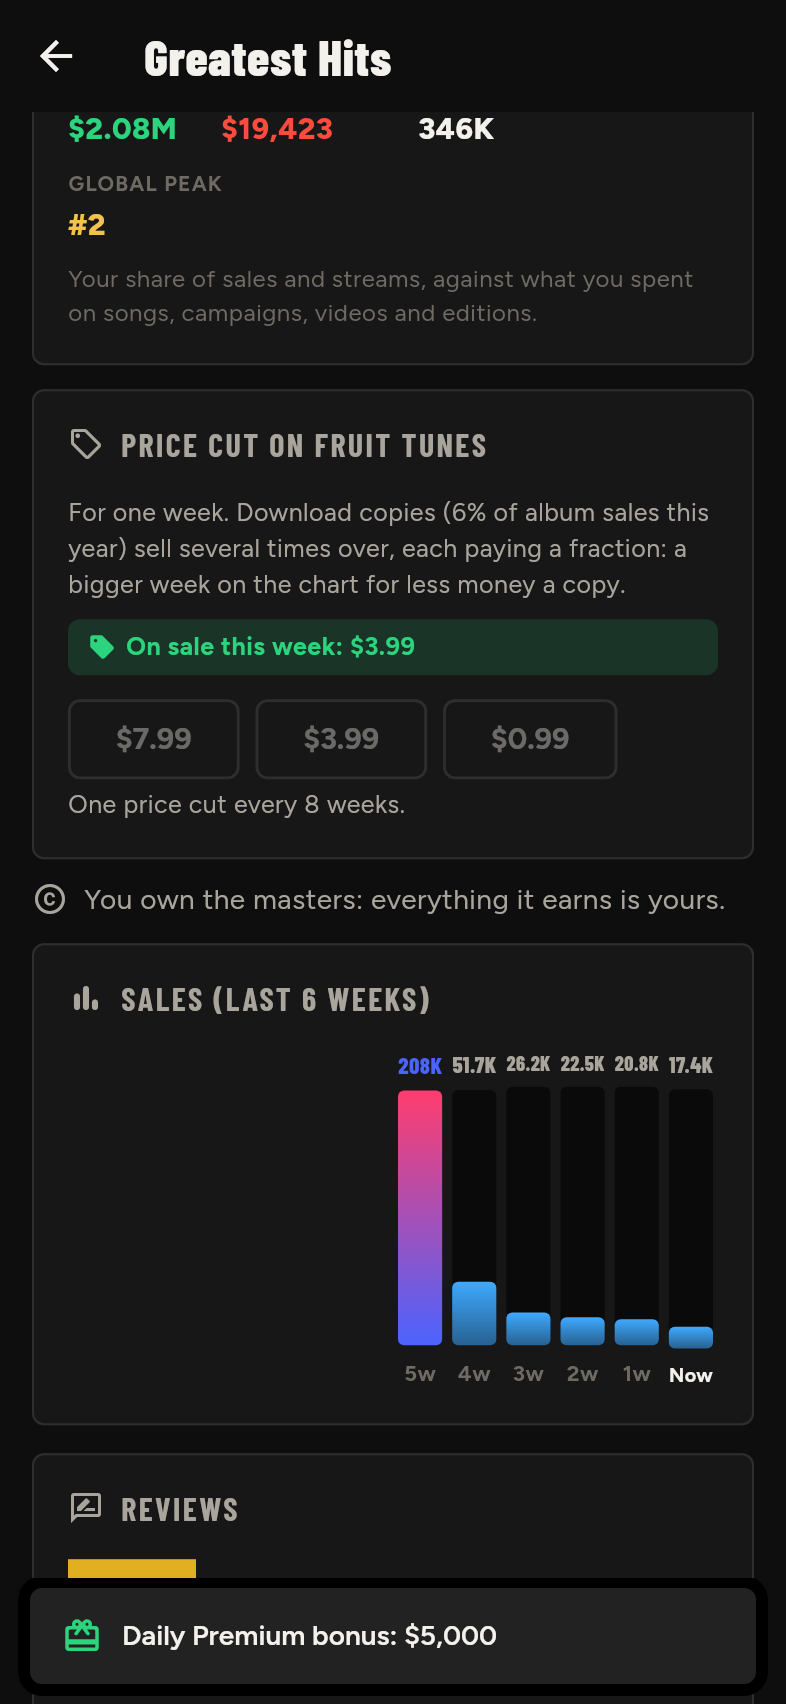
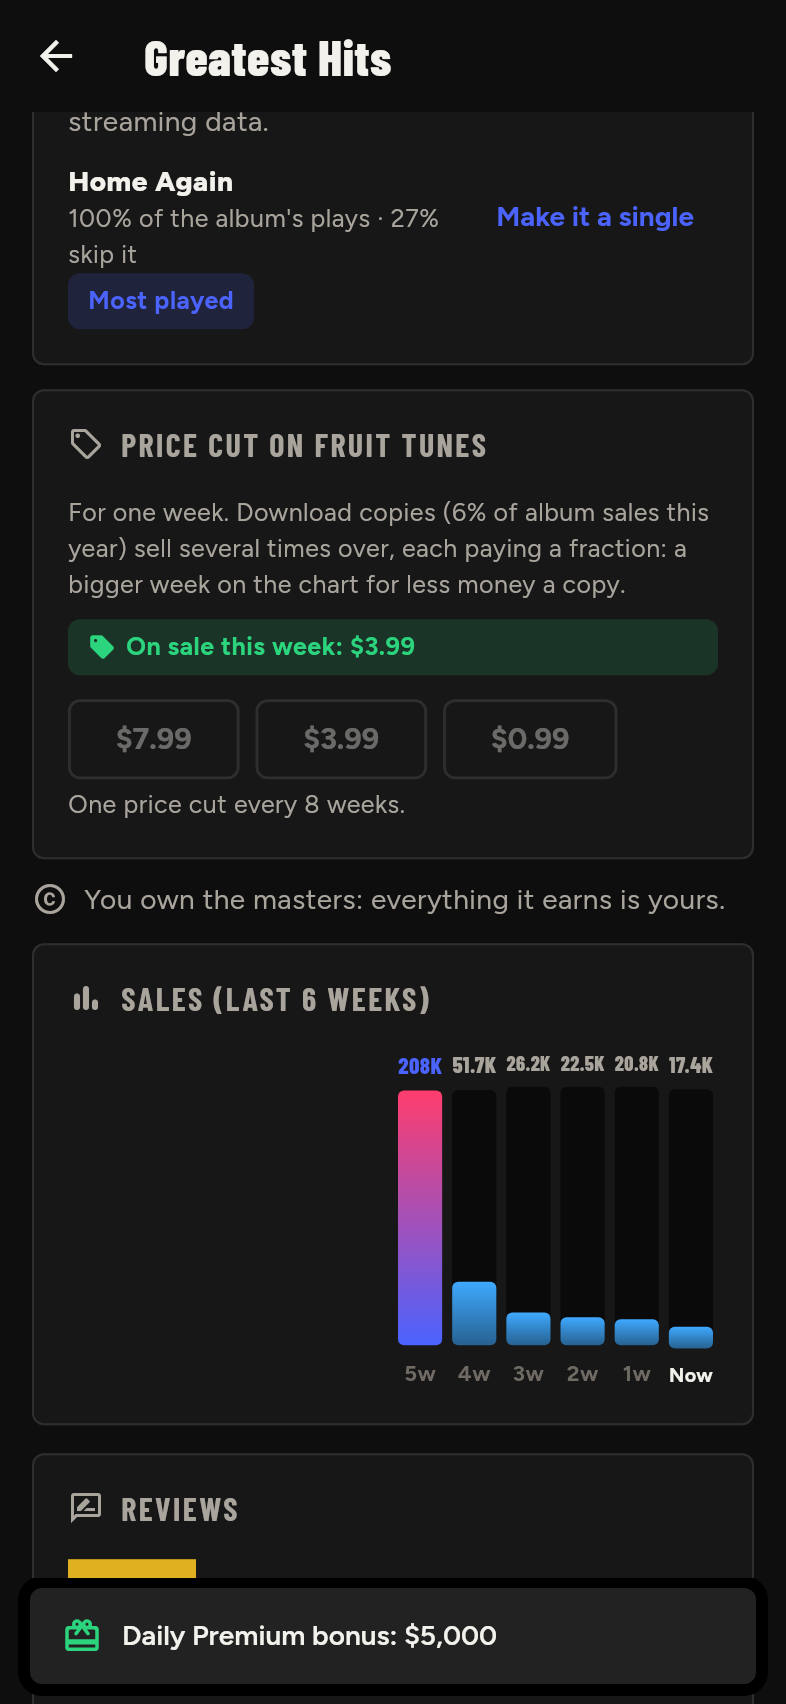
Pick the next single from listening data (K182)
The player's album page ranks the tracks that are not singles yet the
way labels read streaming data: how much each is played, how few skip
it, radio fit, short-video potential and word of mouth, with the
reasons as tags and a button to put the track out as a single.

Claude-Session: https://claude.ai/code/session_01UqeaYiXbKvrTFgHV44HcjP

Changed region(s): [[0.0611, 0.0622, 0.8855, 0.2177], [0.5191, 0.0622, 0.6412, 0.0933]]

diff --git a/app/lib/screens/album_detail_screen.dart b/app/lib/screens/album_detail_screen.dart
@@ -39,6 +39,9 @@ class _AlbumDetailScreenState extends State<AlbumDetailScreen> {
   List<AlbumSalesWeek> _sales = const [];
   List<ChartWeek> _run = const [];
 
+  /// Tracks the listening data suggests for the next single (docs K182).
+  List<SinglePickView> _picks = const [];
+
   @override
   void initState() {
     super.initState();
@@ -57,8 +60,10 @@ class _AlbumDetailScreenState extends State<AlbumDetailScreen> {
     final history = await st.read(Cmd.albumHistory(widget.albumId));
     final sales = await st.read(Cmd.albumSales(widget.albumId));
     final run = await st.read(Cmd.chartRun(EntityKind.album, widget.albumId));
+    final picks = await st.read(Cmd.singlePicks(widget.albumId));
     if (mounted) {
       setState(() {
+        _picks = picks;
         _album = album;
         _tracks = tracks;
         _hits = hits;
@@ -67,6 +72,61 @@ class _AlbumDetailScreenState extends State<AlbumDetailScreen> {
         _run = run;
       });
     }
+  }
+
+  Widget _picksSection() {
+    final l = context.l10n;
+    final career = widget.state;
+    String reason(SinglePickReason r) => switch (r) {
+          SinglePickReason.mostPlayed => l.pickMostPlayed,
+          SinglePickReason.fewSkips => l.pickFewSkips,
+          SinglePickReason.radio => l.pickRadio,
+          SinglePickReason.shortVideo => l.pickShortVideo,
+          SinglePickReason.growing => l.pickGrowing,
+        };
+    return Section(
+      title: l.pickTitle,
+      icon: Icons.insights_rounded,
+      child: Column(crossAxisAlignment: CrossAxisAlignment.stretch, children: [
+        Text(l.pickHint, style: TextStyle(color: AppColors.textMuted)),
+        for (final x in _picks) ...[
+          const SizedBox(height: 10),
+          Row(children: [
+            Expanded(
+              child: Column(
+                  crossAxisAlignment: CrossAxisAlignment.start,
+                  children: [
+                    Text(x.title,
+                        style: const TextStyle(fontWeight: FontWeight.w800)),
+                    Text(
+                        l.pickLine((x.share * 100).round(),
+                            (x.skipRate * 100).round()),
+                        style: TextStyle(
+                            color: AppColors.textMuted, fontSize: 12.5)),
+                  ]),
+            ),
+            TextButton(
+              onPressed: career.busy
+                  ? null
+                  : () async {
+                      final song = _tracks
+                          .where((s) => s.id == x.songId)
+                          .firstOrNull;
+                      if (song == null) return;
+                      if (await releaseSingleFlow(context, career, song)) {
+                        _load();
+                      }
+                    },
+              child: Text(l.pickRelease),
+            ),
+          ]),
+          if (x.reasons.isNotEmpty)
+            Wrap(spacing: 6, runSpacing: 4, children: [
+              for (final r in x.reasons) Tag(reason(r)),
+            ]),
+        ],
+      ]),
+    );
   }
 
   String _priceLabel(AppLocalizations l, PriceCut c) => switch (c) {
@@ -367,6 +427,11 @@ class _AlbumDetailScreenState extends State<AlbumDetailScreen> {
                     style: TextStyle(color: AppColors.textMuted)),
               ),
             ]),
+          ],
+          // The next single, from the listening data (docs K182).
+          if (a.isPlayer && _picks.isNotEmpty) ...[
+            const SizedBox(height: 12),
+            _picksSection(),
           ],
           // How it was rolled out (docs K165).
           if (a.isPlayer && a.rollout.count > 0) ...[

diff --git a/packages/game/lib/src/game_session.dart b/packages/game/lib/src/game_session.dart
@@ -1726,6 +1726,66 @@ class GameSession {
     _saveNow();
   }
 
+  /// How many tracks the next single pick shows (docs K182).
+  static const singlePickCount = 3;
+
+  /// The player's album [albumId]'s tracks that are not singles yet,
+  /// ranked for the next single by what listeners do with them (docs
+  /// K182): how much they are played, how few skip them, the radio, the
+  /// short-video app and word of mouth.
+  List<SinglePickView> singlePicks(int albumId) {
+    final w = world;
+    if (albumId < 0 || albumId >= w.albums.length) {
+      throw GameException('noAlbum', 'No such album');
+    }
+    final al = w.albums[albumId];
+    if (al.artistId != _p.id || al.type == AlbumType.mixtape) return const [];
+    final year = GameTime.yearOf(w.week);
+    final tracks = [
+      for (final id in al.songIds)
+        if (!w.songs[id].isSingle &&
+            w.songs[id].releasedWeek >= 0 &&
+            w.songs[id].status != SongStatus.scrapped &&
+            !_p.scheduled.any((sr) => !sr.isAlbum && sr.songIds.contains(id)))
+          w.songs[id]
+    ];
+    if (tracks.isEmpty) return const [];
+    var total = 0.0, most = 0.0;
+    for (final s in tracks) {
+      total += s.lastAttention;
+      if (s.lastAttention > most) most = s.lastAttention;
+    }
+    final out = <SinglePickView>[];
+    for (final s in tracks) {
+      final skip = StreamingTools.skipRate(s);
+      final age = w.week - s.releasedWeek;
+      final growing = WordOfMouth.lift(w, s, age) >= WordOfMouth.noticed / 2;
+      final video = year >= 2019 ? s.virality : 0.0;
+      final played = most > 0 ? s.lastAttention / most : 0.0;
+      out.add(SinglePickView(
+        songId: s.id,
+        title: s.title,
+        share: total > 0 ? s.lastAttention / total : 0,
+        skipRate: skip,
+        score: 0.5 * played +
+            0.25 * (1 - skip) +
+            0.15 * s.radioAppeal +
+            0.1 * video +
+            (growing ? 0.1 : 0),
+        reasons: [
+          if (most > 0 && s.lastAttention == most)
+            SinglePickReason.mostPlayed,
+          if (skip <= 0.25) SinglePickReason.fewSkips,
+          if (s.radioAppeal >= 0.6) SinglePickReason.radio,
+          if (video >= 0.6) SinglePickReason.shortVideo,
+          if (growing) SinglePickReason.growing,
+        ],
+      ));
+    }
+    out.sort((x, y) => y.score.compareTo(x.score));
+    return out.take(singlePickCount).toList();
+  }
+
   /// Records album [albumId] again under the player's own name (docs
   /// K139): its songs go into the vault as new versions, kept together
   /// as a draft called [title] with up to [Actions.maxDeluxeTracks]

diff --git a/packages/game/test/game_test.dart b/packages/game/test/game_test.dart
@@ -3383,6 +3383,48 @@ void main() {
       g.close();
     });
 
+    test('the next single picked from what listeners do (K182)', () {
+      final g = GameSession.start(
+          slots,
+          _setup(
+              startYear: 2020,
+              premium: true,
+              tier: StartTier.superstar,
+              money: StartMoney.millionaire));
+      final p = g.world.player!;
+      p.moneyCents = 1 << 40;
+      final ids = <int>[];
+      for (var i = 0; i < 10; i++) {
+        p.creativeEnergy = 100;
+        ids.add(g.writeSong(budget: BudgetTier.high).id);
+      }
+      final al = g.releaseAlbum('Picks', ids);
+      for (var i = 0; i < 3; i++) {
+        g.advanceWeek();
+      }
+      final picks = g.singlePicks(al.id);
+      expect(picks.length, GameSession.singlePickCount);
+      for (var i = 1; i < picks.length; i++) {
+        expect(picks[i].score, lessThanOrEqualTo(picks[i - 1].score));
+      }
+      expect(picks.every((x) => ids.contains(x.songId)), isTrue);
+      // The most played track is flagged wherever it ranks.
+      final top = ids
+          .map((id) => g.world.songs[id])
+          .reduce((a, b) => a.lastAttention >= b.lastAttention ? a : b);
+      for (final x in picks) {
+        expect(x.reasons.contains(SinglePickReason.mostPlayed),
+            x.songId == top.id);
+      }
+      g.releaseSingle(picks.first.songId);
+      expect(g.singlePicks(al.id).map((x) => x.songId),
+          isNot(contains(picks.first.songId)));
+      // Only the player's own albums.
+      final rival = g.world.albums.firstWhere((a) => a.artistId != p.id);
+      expect(g.singlePicks(rival.id), isEmpty);
+      g.close();
+    });
+
     test('a single worked to another radio format (K134)', () {
       var g = GameSession.start(slots, _setup());
       final slot = g.slotId;

diff --git a/packages/game/lib/src/views.dart b/packages/game/lib/src/views.dart
@@ -2516,6 +2516,43 @@ class DocumentaryView {
       })> docs;
 }
 
+/// Why the listening data likes a track for the next single (docs K182).
+enum SinglePickReason {
+  /// The album's most played track that is not a single yet.
+  mostPlayed,
+
+  /// Few listeners skip it.
+  fewSkips,
+
+  /// Made for the radio.
+  radio,
+
+  /// Could take off on the short-video app (2019+).
+  shortVideo,
+
+  /// More people find it every week (word of mouth).
+  growing,
+}
+
+/// An album track the listening data suggests as the next single.
+class SinglePickView {
+  SinglePickView(
+      {required this.songId,
+      required this.title,
+      required this.share,
+      required this.skipRate,
+      required this.score,
+      required this.reasons});
+  final int songId;
+  final String title;
+
+  /// Its share of the album's non-single listening this week.
+  final double share;
+  final double skipRate;
+  final double score;
+  final List<SinglePickReason> reasons;
+}
+
 /// Streamify Sessions (docs K178): the invitation, the player's songs
 /// that could be recorded, the hits that could be covered and the
 /// sessions so far.

diff --git a/app/lib/core/commands.dart b/app/lib/core/commands.dart
@@ -211,6 +211,10 @@ abstract final class Cmd {
   static SessionCmd<List<MilestoneView>> milestones() => (s) => s.milestones;
   static SessionCmd<List<PlatformView>> platforms() => (s) => s.platforms;
   static SessionCmd<void> hireManager(Manager m) => (s) => s.hireManager(m);
+  /// Album tracks for the next single (docs K182).
+  static SessionCmd<List<SinglePickView>> singlePicks(int albumId) =>
+      (s) => s.singlePicks(albumId);
+
   /// Nights a tour leg can fill (docs K181).
   static SessionCmd<int> suggestTourShows(TourRequest r, TourMarket m) =>
       (s) => s.suggestTourShows(r, m);

diff --git a/docs/README.md b/docs/README.md
@@ -206,6 +206,7 @@ Bu kararlar alınmıştır; değiştirmek için bilinçli bir revizyon gerekir.
 | K179 | **Denge kontrolü (K168–K178 sonrası, career_probe, normal mod, 3 dünya, medyan):** Bilinmeyen 2010: K167 ile aynı (3. yıl en iyi ABD #3 ve 132K hayran, 4. yılda ABD #1, albüm ilk haftası 133K; 5. yılda #1'ler, 1,3M hayran, 5,2M para). Süperstar 2016: yıl 1–3 #1 sayısı 3 → 1 → 0 (K167: 4 → 2 → 1), albüm ilk haftası global 0,94–1,0M (K167: 1,0–1,1M), para 16,6M (K167: 18,0M). Stadyum eşiği (K176) etkisiz: 5M eşikle ölçüm birebir aynı. Fark rakip yıldızların çıkış hamlelerinden (K175) dünyanın farklı akmasından; tek dünyalık oynamalar bu büyüklükte. Ayar yapılmadı. |
 | K180 | **Turne biletleri daha kolay satılıyor (F82):** Mekan boyutuna göre çekim çarpanı: kulüp ×2,2 (yerel sahne ve kapıdan gelenler), tiyatro ×1,1, arena ×1,25, stadyum ×1,4 (büyük konser bir etkinlik, hayranlar yanında başkalarını da getiriyor). Rakiplerin turne kayıtları da aynı kuralla. Ölçüm (ABD bacağı, performans 29, heyecansız → heyecan 0,3): kulüp 20K hayran 10 gece %31 → %64 (%74); arena 1M 10 gece %65 → %81 (%96); stadyum 3M 6 gece %61 → %84 (%98), 4M 10 gece %67 → %91 (%100), 6M 20 gece %70 → %88 (%96). Önceden stadyum, hayran sayısından bağımsız hiç dolmuyordu. | Uygulandı |
 | K181 | **Turne bacakları talebe göre (F82'nin devamı):** Turne planlayıcısı her pazarın varsayılan gece sayısını "en fazlanın üçte biri" seçiyordu (ABD stadyumu 20 gece); talep düşükse biletler yarı boş kalıyordu. Artık bir pazar açılınca ya da mekan boyutu değişince gece sayısı, o fiyat, prodüksiyon ve ön grupla koltukların ~%90'ını dolduracak en fazla geceye ayarlanıyor; her bacakta "Talebe göre" düğmesi fiyat ya da ön grup değiştikten sonra yeniden ayarlıyor. Elle artırıp azaltmak hâlâ serbest. | Uygulandı |
+| K182 | **Sonraki single, dinlenme verisinden:** Kendi albümünün sayfasında "Sonraki single" bölümü: single olmamış, çıkmış parçalardan en iyi 3'ü, plak şirketlerinin streaming verisine bakıp seçtiği gibi sıralı. Puan: bu haftaki dinlenme (albümün en çok dinlenen single-olmayan parçasına göre, %50), atlanmama (%25), radyo uygunluğu (%15), kısa video potansiyeli (2019+, %10) ve kulaktan kulağa büyüme (+0,1). Her satırda albüm dinlenmesindeki payı ve atlama oranı, nedenler etiketlerle (En çok dinlenen, Az atlanıyor, Radyoya uygun, Kısa video potansiyeli, Kulaktan kulağa büyüyor) ve "Single yap" düğmesi (her zamanki zamanlama, kampanya, radyo ve streaming seçenekleri). Mixtape'ler ve rakip albümleri hariç. | Uygulandı |
 | K82 | **Her platformda kendi profilin (F48):** Platform ekranlarının üstünde "Senin sayfan": fotoğraf (Streamify'da Streamify fotoğrafı), ad, mavi tik (fame %10+ veya 100K+ takipçi), takipçi sayısı (ViewTube'da abone), streaming uygulamalarında aylık dinleyici, bu haftaki rakam ve en büyük şarkın. Takipçiler sadık hayran ve sıradan dinleyiciden hesaplanır, platform açıldıktan sonra 4 yılda tam oturur: Streamify %85 hayran + %5 dinleyici; Fruit Music %25 + %2 (Kuzey Amerika'da daha çok); ViewTube %60 + %6 (müzik videosu sayısıyla ×0,8–1,2); NoiseCloud %10 + %0,8; TikTak %25 + %6 (karizmayla ×0,6–1,4). Fruit Tunes indirme mağazası, takipçisi yok. Streamify sanatçı sayfasındaki takipçi sayısı da aynı kuraldan geliyor (rakipler dahil). |
 | K23 | ChatGPT planındaki ekranlar, rekorlar, kampanyalar, finans, bildirimler, ödüller, Kolay mod ve 10 performans kuralı dokümanlara taşındı. |
 
